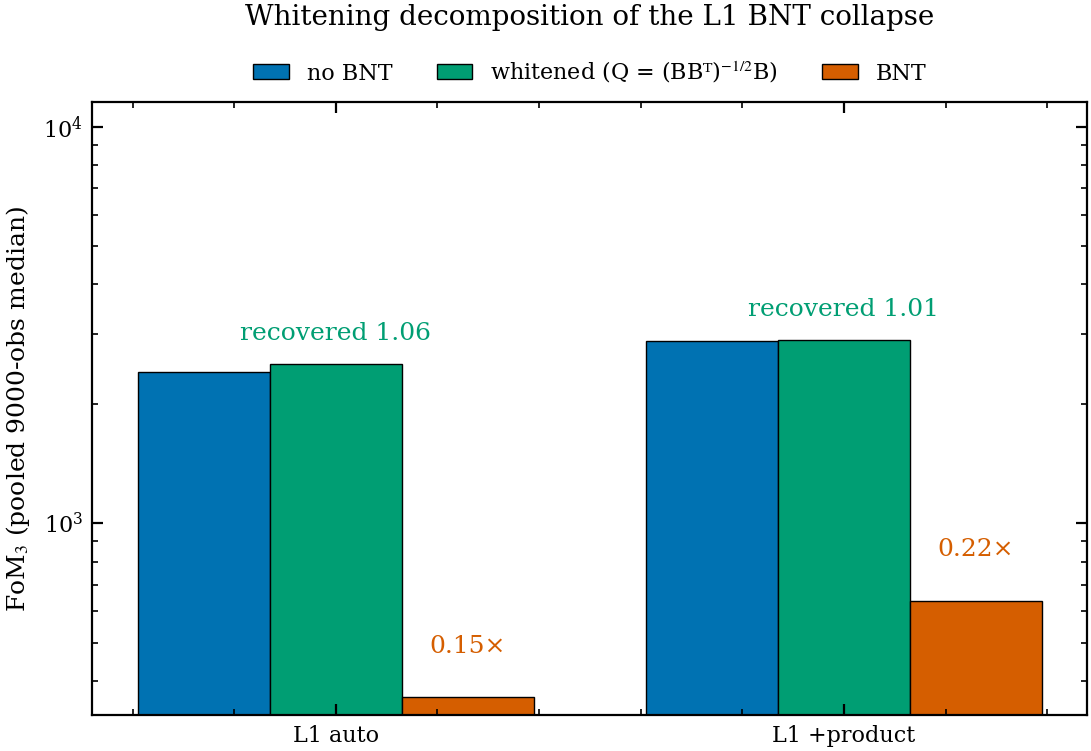
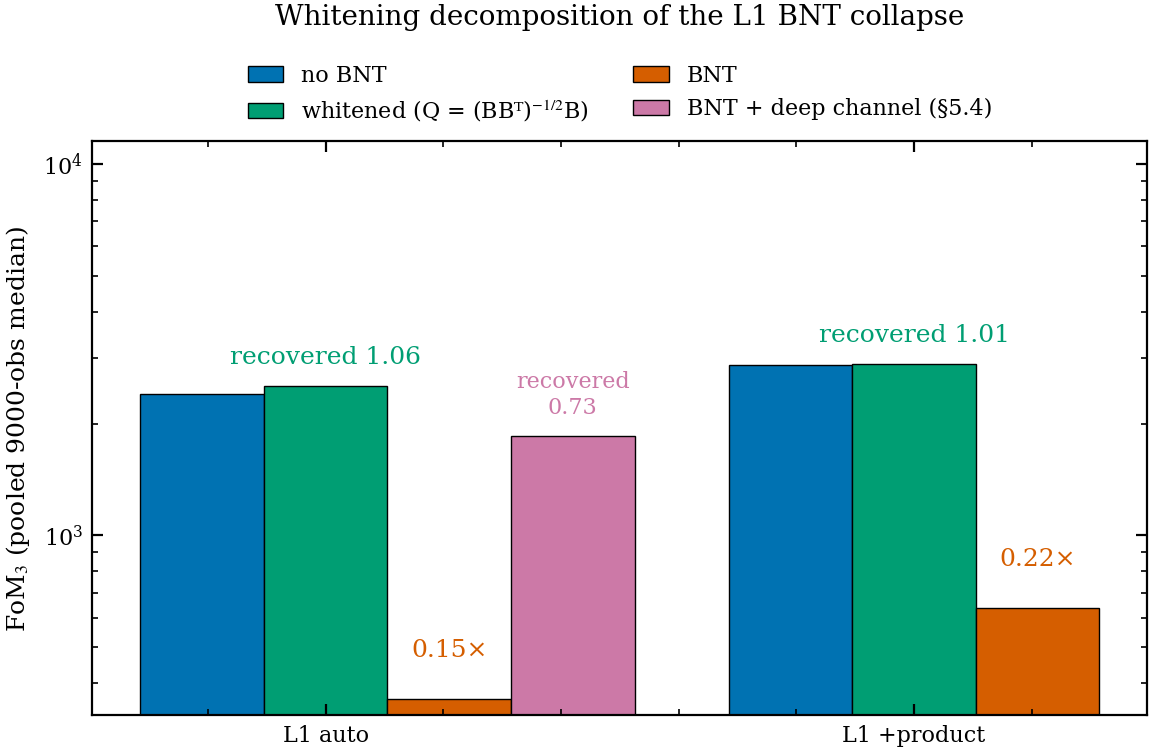
results(flatsky-cross): §5.4 bnt+deep test — recovered 0.730, below registration (partial)
ONE appended deep channel (bin average; nulled maps untouched): FoM3
364 -> 1854 of 2405; sigma(s8) 0.176 -> 0.096 (vs 0.082); sigma(w0)
~restored. Below the registered 0.8 => the deep direction is the
DOMINANT carrier but the single-direction strong form is REFUTED; the
residual ~27% is tomographic structure among the four deep kernels.
Account refined to span-calibrated: 0 directions -> 0.15x, 1 -> 0.73,
spanning set (whitening/original) -> 1.0. Third falsified/sub-threshold
prediction kept as journey material. Folded into deep-dive (ledger,
exec, 1.7, 5.3, 5.4), FLATSKY_BNT_RESULT.md, paper draft Parts I-II,
figure (4th bar), felt, memory.

diff --git a/scripts/sbi/whiten_campaign_figure.py b/scripts/sbi/whiten_campaign_figure.py
@@ -38,10 +38,13 @@ def main():
         w = fom3(WH / f"population_sweep/l1_{op}")
         b = fom3(FC / f"bnt_campaign/population_sweep/l1_{op}")
         arms.append((label, n, w, b, (w - b) / (n - b)))
+    # optional 4th bar (auto arm only): the §5.4 bnt+deep test
+    d5_file = FC / "bntdeep_campaign/population_sweep/l1_none/median_summary.json"
+    d5 = json.load(open(d5_file))["fom3"] if d5_file.exists() else None
 
     x = np.arange(len(arms))
-    width = 0.26
-    fig, ax = plt.subplots(figsize=(5.5, 3.8))
+    width = 0.26 if d5 is None else 0.21
+    fig, ax = plt.subplots(figsize=(5.8, 3.8))
     for k, (vals, color, label) in enumerate((
             ([a[1] for a in arms], C_NOBNT, "no BNT"),
             ([a[2] for a in arms], C_WHITEN, "whitened (Q = (BBᵀ)$^{-1/2}$B)"),
@@ -53,15 +56,21 @@ def main():
                 color=C_WHITEN)
         ax.text(xi + width, b * 1.3, f"{b/n:.2f}×", ha="center", fontsize=9,
                 color=C_BNT)
+    if d5 is not None:
+        n0, b0 = arms[0][1], arms[0][3]
+        ax.bar(0 + 2 * width, d5, width, color="#CC79A7", edgecolor="k", lw=0.5,
+               label="BNT + deep channel (§5.4)")
+        ax.text(2 * width, d5 * 1.15, f"recovered\n{(d5-b0)/(n0-b0):.2f}", ha="center",
+                fontsize=8, color="#CC79A7")
     ax.set_yscale("log")
     ax.set_ylim(top=max(a[1] for a in arms) * 4)
     ax.set_ylabel(r"FoM$_3$ (pooled 9000-obs median)")
     ax.set_xticks(x)
     ax.set_xticklabels([a[0] for a in arms])
-    ax.legend(frameon=False, ncol=3, loc="lower center",
+    ax.legend(frameon=False, ncol=2, loc="lower center",
               bbox_to_anchor=(0.5, 1.0), fontsize=8)
     ax.set_title("Whitening decomposition of the L1 BNT collapse", fontsize=10,
-                 pad=28)
+                 pad=42)
     for ext in ("png", "pdf"):
         fig.savefig(FIGS / f"fom3_whiten_decomposition.{ext}", dpi=200)
     plt.close(fig)

diff --git a/scripts/sbi/results/exploratory/flatsky_cross_2026_06/BNT_THEORY_DEEP_DIVE.md b/scripts/sbi/results/exploratory/flatsky_cross_2026_06/BNT_THEORY_DEEP_DIVE.md
@@ -48,6 +48,11 @@ and discarded — §5) is physical:
 > generic rotation, or the original bins — feeds per-channel statistics; the nulled frame is
 > the special frame that contains none.**
 
+Span calibration (§5.4, run after registration): ONE appended deep channel recovers 0.730 of
+(noBNT − BNT) — below its registered 0.8, so the single-direction strong form is refuted
+while the deep direction is confirmed as the dominant carrier; the residual ~27% is
+tomographic structure among the four deep kernels that one average cannot carry.
+
 Claims ledger (tags: PROVED here / MEASURED in the campaign / MECHANISM = physically grounded
 but not derived end-to-end):
 
@@ -67,8 +72,8 @@ but not derived end-to-end):
 | Pairwise union maps complete at 2nd order, incomplete at 3rd | PROVED | M2 |
 | l1 collapse 0.15×/0.22×; CNN 0.93×/0.88×; whitening recovers 1.06/1.01 | MEASURED | campaign |
 | σ8 hit hardest / w0 mildest: w0's room capped by the prior (max 1.9× vs measured 1.32×) | MEASURED+derived | F6 |
-| The no-deep-direction account of the collapse | MECHANISM | §5 |
-| Proposed decisive check: append ONE deep channel to the 4 nulled maps → near-full recovery | PREDICTION (not run) | §5.4 |
+| The no-deep-direction account of the collapse (dominant; span-calibrated) | MECHANISM | §5 |
+| §5.4 check: +1 deep channel, registered ≥0.8 → MEASURED 0.730 (partial; strong form refuted) | MEASURED | §5.4 |
 
 ================================================================================
 ## §1 — The story in plain language
@@ -220,11 +225,12 @@ Ranked; "measured" = this campaign, "exact" = proved, "predicted" = registered, 
    quantitative justification for higher-order statistics: skipping the rotate-back step
    costs 85% of the l1's FoM3 (measured), performing it costs nothing (measured, whitening),
    and P1/P4b are the proof-level statements that the post-cut basis is a free choice.
-2. **Append ONE deep channel** (predicted near-full recovery; cheap decisive test, §5.4):
-   keep the four nulled maps untouched — preserving per-slice cuts — and add the plain bin
-   average (κ₁+κ₂+κ₃+κ₄)/4 as a fifth l1 channel. If the no-deep-direction account is right,
-   most of the lost FoM3 returns with a single fixed extra channel and no re-mixing of the
-   nulled maps. Not yet run; would be a ~3 h mini-campaign with existing machinery.
+2. **Append ONE deep channel** (MEASURED 2026-06-11: recovers 0.73, §5.4): keep the four
+   nulled maps untouched — preserving per-slice cuts — and add the plain bin average
+   (κ₁+κ₂+κ₃+κ₄)/4 as a fifth l1 channel. Measured: FoM3 364 → 1854 (of 2405); σ(σ8)
+   0.176 → 0.096 (vs 0.082); σ(w0) essentially restored. One fixed extra channel undoes
+   ~3/4 of the collapse; the rest is tomographic structure among the deep kernels (a second,
+   depth-distinct deep channel is the registered-but-not-run next rung).
    **Real-survey caveat:** the appended deep map is exactly the object with ℓ↔k leakage, so
    in a cut analysis it must itself be cut conservatively — eroding its gain. It is the
    right MECHANISM test (uncut, information-accounting setting), not a survey recipe.
@@ -556,20 +562,49 @@ nulling directions b̂₂..b̂₄. What actually distinguishes the frames:
   the deep direction, and showed no collapse.
 
 So the durable statement: **the l1's BNT collapse is the starvation of a frame that contains
-no deep direction; restore one deep direction (Q does; a generic rotation does; the original
-axes do fourfold-redundantly) and the per-channel information returns in full — measured.**
-Tagged honestly: the invariances and the bounds are PROVED; the full-recovery and the 0.15×
-are MEASURED; "the deep direction carries the bulk" is MECHANISM — strongly supported
-(datavector response figure; the toy; the geometry above) but not derived end-to-end.
+no deep direction; restore the signal-rich subspace and the per-channel information returns.**
+Quantified by the §5.4 test: ONE appended deep direction restores 73%; frames spanning the
+signal-rich subspace with several channels (whitening, original axes) restore 100% — the
+residual ~27% is tomographic structure AMONG the deep kernels that a single average cannot
+carry. Tagged honestly: the invariances and the bounds are PROVED; 0.15×, 1.06/1.01, and
+0.730 are MEASURED; "per-channel information scales with the spanned signal-rich subspace"
+is MECHANISM — now calibrated at three points (0, 1, and 4-ish signal-rich directions) but
+not derived end-to-end.
 
-### 5.4 The decisive cheap test (registered, not run)
+### 5.4 The decisive cheap test — REGISTERED ≥ 0.8, MEASURED 0.73 (partial)
 
-If §5.3 is right, appending ONE deep channel — the plain average (κ₁+κ₂+κ₃+κ₄)/4, fixed, no
-learning — to the four untouched nulled maps should restore most of the lost FoM3, while
-keeping the nulled channels available for per-slice cuts (unlike whitening, which destroys
-them). Five-channel l1, one extra build slice, whiten-campaign template (~3 h). PREDICTION:
-recovery ≥ 0.8 of (noBNT − BNT). If it fails, §5.3 is wrong and the joint share is hiding
-somewhere subtler — either outcome is paper material.
+Registered before any data: appending ONE deep channel — the plain average (κ₁+κ₂+κ₃+κ₄)/4,
+fixed, no learning — to the four untouched nulled maps should restore ≥ 0.8 of (noBNT − BNT).
+Run 2026-06-11 (`bntdeep_campaign/BNTDEEP_RESULT.md`; BNT columns bit-identical to the
+measured 0.15× arm, theta/perm/patch alignment hard-asserted):
+
+| arm | FoM3 | σ(σ8) | σ(w0) |
+|---|---|---|---|
+| noBNT auto | 2405 | 0.082 | 0.245 |
+| BNT auto | 364 | 0.176 | 0.323 |
+| BNT + deep (5ch) | 1854 | 0.096 | 0.256 |
+
+**recovered = 0.730 — the registered threshold was NOT met.** Honest reading, both ways:
+- *Support:* a single fixed appended channel undoes 73% of the FoM3 loss, ~85% of the σ(σ8)
+  damage, and nearly all of the σ(w0) damage. The deep direction is confirmed as the
+  DOMINANT carrier of what per-channel statistics lose under nulling.
+- *Refutation of the strong form:* "the deep common mode carries essentially all of it" is
+  too strong by ~27%. The natural refinement: the original basis contains FOUR deep kernels
+  of different depths — a 4-dimensional signal-rich structure — and one average direction
+  cannot carry the tomographic information AMONG the deep modes. The full-recovery frames
+  (whitening, original axes) span the signal-rich subspace with several channels; the
+  bnt+deep frame spans one direction of it. Account update: per-channel-accessible
+  information scales with how much of the signal-rich subspace the frame's channels span —
+  one direction ≈ 73%, a spanning set = 100% (measured at both ends).
+- *Caveat biasing recovered DOWN (unquantified, small):* the deep channel inherits the
+  standard 40-bin protocol over its calibrated range, which is wide and heavy-tailed
+  ([−12.1, +14.4] in SNR; raw max 52) — coarser binning of the core than the other channels
+  get. Some of the missing 27% may be binning efficiency, not missing structure.
+- *Optional next rung (NOT run; needs a go):* append TWO deep channels of different depths
+  (e.g. the average + the deepest bin κ₄ alone) — the span refinement predicts a recovery
+  strictly between 0.73 and 1. Cheap (same concat machinery).
+Survey-recipe caveat unchanged: this is the uncut information-accounting setting (§1.7
+item 2).
 
 ### 5.5 Synthesis (the two pillars, final form)
 

diff --git a/.felt/flatsky-cross-2026-06/flatsky-cross-2026-06.md b/.felt/flatsky-cross-2026-06/flatsky-cross-2026-06.md
@@ -22,6 +22,37 @@ Each arm cross-gain over auto-only is measured AND calibration-validated (TARP/S
 ## Guardrails
 patch-local cross ONLY (never full-sphere = leakage); per-channel noise (not shared auto-sigma); never PCA L1; GPU 1 only; example-disjoint compressor/NDE split by perm; calibrate BEFORE contours; SAME auto channels across all arms; one apodized-circular convolution definition; do not relitigate the operator choice (notes S8-12).
 
+## Loop status (bnt+deep-§5.4-RESULT 2026-06-11 ~22:00 UTC)
+★★ §5.4 DONE in 11 min (build 198s — TFDS hot — sweep 275s, zero failures, all alignment
+asserts PASS): **recovered = 0.730 — BELOW the registered 0.8 ⇒ PARTIAL.** deep5 FoM3 1854
+(noBNT 2405, BNT 364); σ_s8 0.176→0.096 (vs 0.082, ~85% of damage undone); σ_w0 ≈ restored
+(0.256 vs 0.245). READING: deep direction = DOMINANT carrier (one fixed channel undoes 3/4
+of the collapse) but the single-direction STRONG form is REFUTED — residual ~27% =
+tomographic structure among the 4 deep kernels (different depths; one average can't carry
+it). Account refined to SPAN-CALIBRATED: per-channel info scales with spanned signal-rich
+subspace — 0 directions→0.15×, 1→0.73, spanning set (whiten/original)→1.0. Caveat biasing
+0.73 DOWN: deep channel's 40 bins over a wide heavy-tailed range ([−12,14] SNR) = coarser
+core binning. Registered-not-run next rung: 2nd depth-distinct deep channel (predicted
+strictly between 0.73 and 1). Folded into deep-dive §0/§1.7/§5.3/§5.4 + ledger, FLATSKY_BNT_
+RESULT.md, paper draft Part I+II, memory, figure (4th bar). Honesty chain now THREE falsified
+/sub-threshold predictions kept as journey material (F4 LOW-MID → full; sign-structure → dead
+on geometry; §5.4 ≥0.8 → 0.73).
+
+## Loop status (bnt+deep-§5.4-LAUNCHED 2026-06-11 ~21:45 UTC)
+★ §5.4 TEST RUNNING (Andreas GO): run_flatsky_bntdeep_campaign.py detached GPU 1 (sole
+tenant), monitor armed. PRE-REGISTERED: recovered = (deep5−BNT)/(noBNT−BNT) ≥ 0.8 / 0.4–0.8
+partial / <0.4 refutes §5.3. Implementation = per-channel block CONCAT (no 5-ch plumbing):
+x = [cached flat_local_none_bnt 800 cols (bit-identical to the measured 0.15× arm) | fresh
+deep-channel 200 cols]; deep σ(s) = ¼√(Σσⱼ²) derived EXACTLY from the verified no-BNT table;
+loader params mirror the BNT build (train/5-6/flip/1001/512, val/test/0-1/noflip/2001);
+theta + fiducial perm/patch bit-equality HARD-ASSERTED. New: mix modes 'deep'(1×4 avg)/
+'bnt_deep'(5×4) + mode-aware n_built_channels (unit-checked: avg exact, row sums 1,0,0,0,1).
+Build streaming at ~3200 patches/s (TFDS hot in page cache after whiten campaign — vs 169/s
+cold). Code committed 60c9b61 + PLAN_BNTDEEP_TEST.md. Bin-count remarks (≥4-bins folklore
+derived: 2-param kernel ⇒ 2 conditions ⇒ 3 bins/row, N−2 nulled maps; row 2 only partially
+nulled) folded into deep-dive §1.2/F3 (f2a9e3c); Q-vs-B⁻¹ + survey-workflow clarifications
+(7258411).
+
 ## Loop status (whitening-vs-Binv + survey-workflow clarifications 2026-06-11 ~16:30 UTC)
 Andreas Q&A round 2: (1) Q vs B⁻¹ — clarified in doc §1.6: ALL noise-whiteners of the nulled
 maps form the family W = O·B⁻¹ (net transform = rotation); B⁻¹ is the O=I member (would have

diff --git a/scripts/sbi/results/exploratory/flatsky_cross_2026_06/PAPER_BNT_MAIN_AND_APPENDIX_DRAFT.md b/scripts/sbi/results/exploratory/flatsky_cross_2026_06/PAPER_BNT_MAIN_AND_APPENDIX_DRAFT.md
@@ -47,8 +47,10 @@ no learning involved — returns the full no-BNT figure of merit (recovered frac
 irreducibly joint: the collapse is entirely a property of the nulled frame — the unique
 frame, by construction, with no deep direction anywhere. (The rotation re-mixes the nulled
 kernels, so this is information accounting, not an analysis recipe; what it licenses is the
-separation of the cleaning basis from the statistics basis — and a cheaper fix still,
-appending a single deep combination map to the otherwise untouched nulled set.)
+separation of the cleaning basis from the statistics basis. A cheaper fix — appending a
+single deep combination map, the plain bin average, to the otherwise untouched nulled set —
+recovers 73% of the lost figure of merit on its own; the remainder is tomographic structure
+among the deep kernels that one average cannot carry.)
 
 A convolutional network fed the tomographic bins as input channels evades this for a simple,
 almost mechanical reason: the first operation of a multichannel CNN is a learned linear
@@ -195,9 +197,10 @@ appendix table). Noise correlation is invisible to marginals and noise amplifica
 absorbed by the SNR normalization, so neither was ever a complete mechanism. (Two earlier
 explanations — the pre-registered partial-recovery expectation and a first post-mortem based
 on mixing sign structure — were falsified against the data and the transform's own geometry;
-the chain is preserved in deep-dive §5 as journey material. Registered next test, §5.4:
-appending ONE deep channel to the four untouched nulled maps should recover ≥0.8 — a
-practical rescue that, unlike whitening, preserves the nulled channels for per-slice cuts.)
+the chain is preserved in deep-dive §5 as journey material. The §5.4 follow-up — ONE deep
+channel appended to the four untouched nulled maps, registered ≥0.8 — MEASURED 0.730:
+below registration, confirming the deep direction as dominant while refuting the
+single-direction strong form; the residual is tomographic structure among the deep kernels.)
 
 ## Interpretation (the two pillars as one statement)
 

diff --git a/FLATSKY_BNT_RESULT.md b/FLATSKY_BNT_RESULT.md
@@ -72,9 +72,13 @@ normalization), not mixing per se. Diagnostic only: Q remixes the nulled kernels
 practical statement stays "cleaning basis ≠ statistics basis." Honesty trail: the
 pre-registered prediction (LOW-to-MID) was falsified AND the first post-mortem (sign
 structure) failed its own geometry check — both kept in the deep-dive §5 as journey material.
-Registered next test (§5.4, not run): append ONE deep channel (plain bin average) to the 4
-untouched nulled maps → predicted ≥0.8 recovery while preserving per-slice cuts. Recovered
-values marginally above 1 read as "complete to within a few percent."
+§5.4 test (registered ≥0.8, MEASURED 0.730 — `bntdeep_campaign/BNTDEEP_RESULT.md`): ONE
+appended deep channel (plain bin average; 4 nulled maps untouched) recovers FoM3 364 → 1854
+of 2405, σ(σ8) 0.176 → 0.096 (vs 0.082), σ(w0) ≈ restored — below registration ⇒ the deep
+direction is the DOMINANT carrier but the single-direction strong form is refuted; the
+residual ~27% is tomographic structure among the four deep kernels (one average can't carry
+it). Recovered values marginally above 1 (whitening) read as "complete to within a few
+percent."
 
 ## Caveats / validation (GATE C ran 2026-06-11 — pass WITH caveats; `bnt_campaign/gate_c/GATE_C_BNT.md`)
 

diff --git a/scripts/sbi/results/exploratory/flatsky_cross_2026_06/bntdeep_campaign/BNTDEEP_RESULT.md b/scripts/sbi/results/exploratory/flatsky_cross_2026_06/bntdeep_campaign/BNTDEEP_RESULT.md
@@ -1,0 +1,17 @@
+# §5.4 one-extra-deep-channel test — derived result
+
+5-channel L1 = 4 untouched BNT maps + the plain bin average (deep channel).
+Pre-registered (BNT_THEORY_DEEP_DIVE.md §5.4, before any data): recovered >= 0.8.
+Pooled 3-MAF 9000-obs median FoM3; same MAF/sweep machinery as all arms.
+
+| arm | FoM3 | sigma(s8) | sigma(w0) |
+|---|---|---|---|
+| L1 noBNT auto | 2405 | 0.082 | 0.245 |
+| L1 BNT auto | 364 | 0.176 | 0.323 |
+| L1 BNT + deep (5ch) | 1854 | 0.096 | 0.256 |
+
+**recovered = (deep5 − BNT)/(noBNT − BNT) = 0.730**
+
+**Verdict: PARTIAL (0.4-0.8)** — the deep direction carries a substantial share but the account is incomplete; the remainder lives in structure the single average does not expose.
+
+NB mechanism test in the UNCUT information-accounting setting — not a survey recipe (the deep channel would need conservative cuts; deep-dive §1.7 item 2 caveat).
